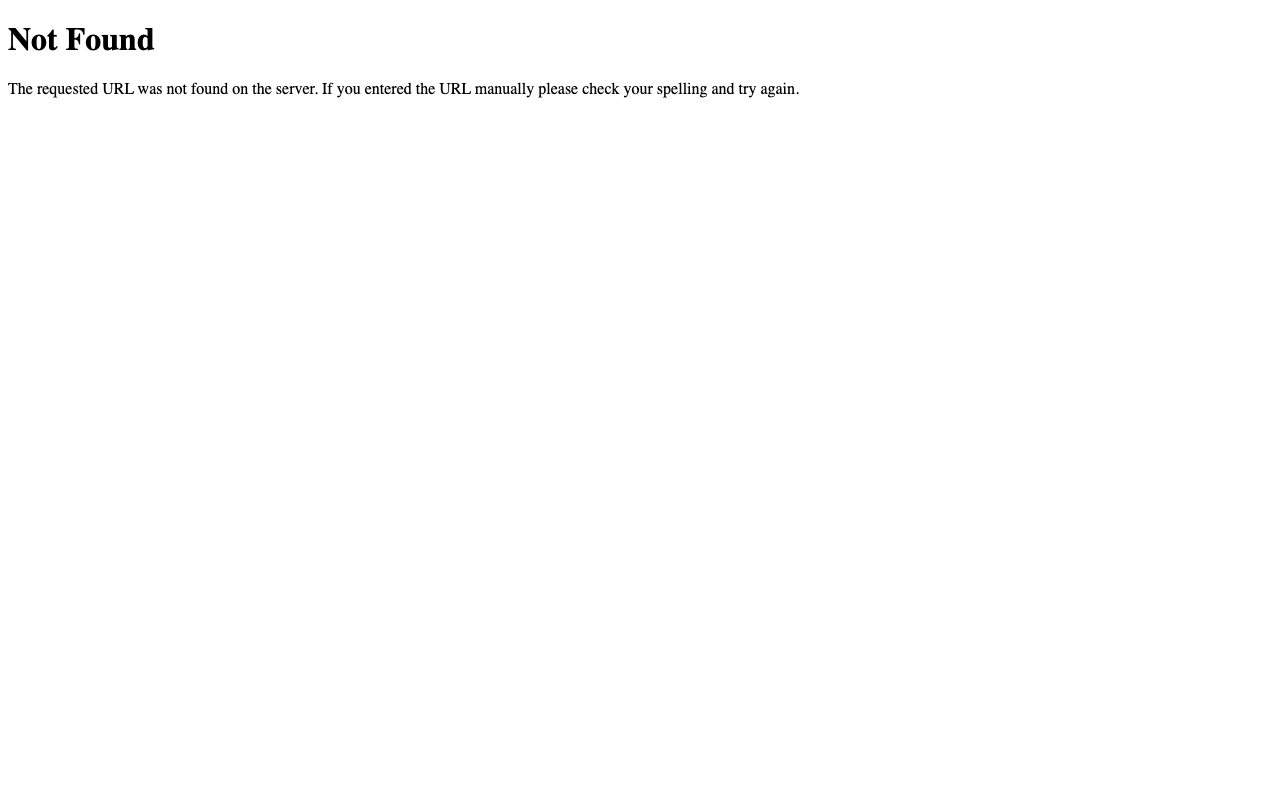
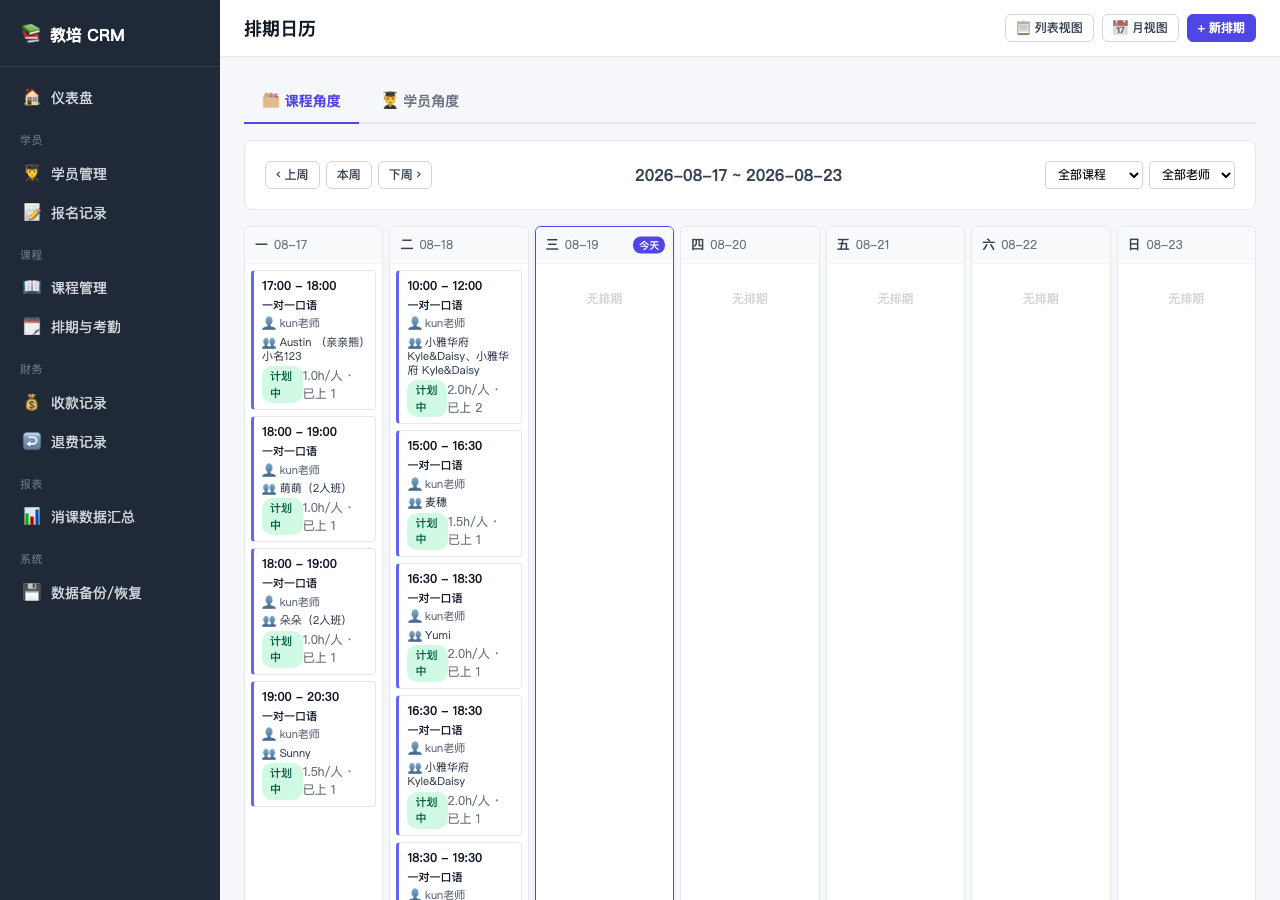
fix: calendar 路由加 strict_slashes=False + 真实数据截图
- routes/calendar.py: /calendar 路由加 strict_slashes=False
  让 /schedules/calendar 和 /schedules/calendar/ 两个 URL 都 200,
  解决 trailing slash 导致的 404 Not Found
- docs/screenshots/schedule-calendar.png: 替换为真实数据截图
  (59 学员/90 排期的真实排期日历,之前是 init_db.py 示例数据)

diff --git a/routes/calendar.py b/routes/calendar.py
@@ -25,7 +25,7 @@ def _parse_date(s, default):
         return default
 
 
-@bp.route("/calendar")
+@bp.route("/calendar", strict_slashes=False)
 def view():
     """日历视图入口。通过 ?view=week|month + ?angle=course|student 切换。"""
     view_mode = request.args.get("view", "week")
